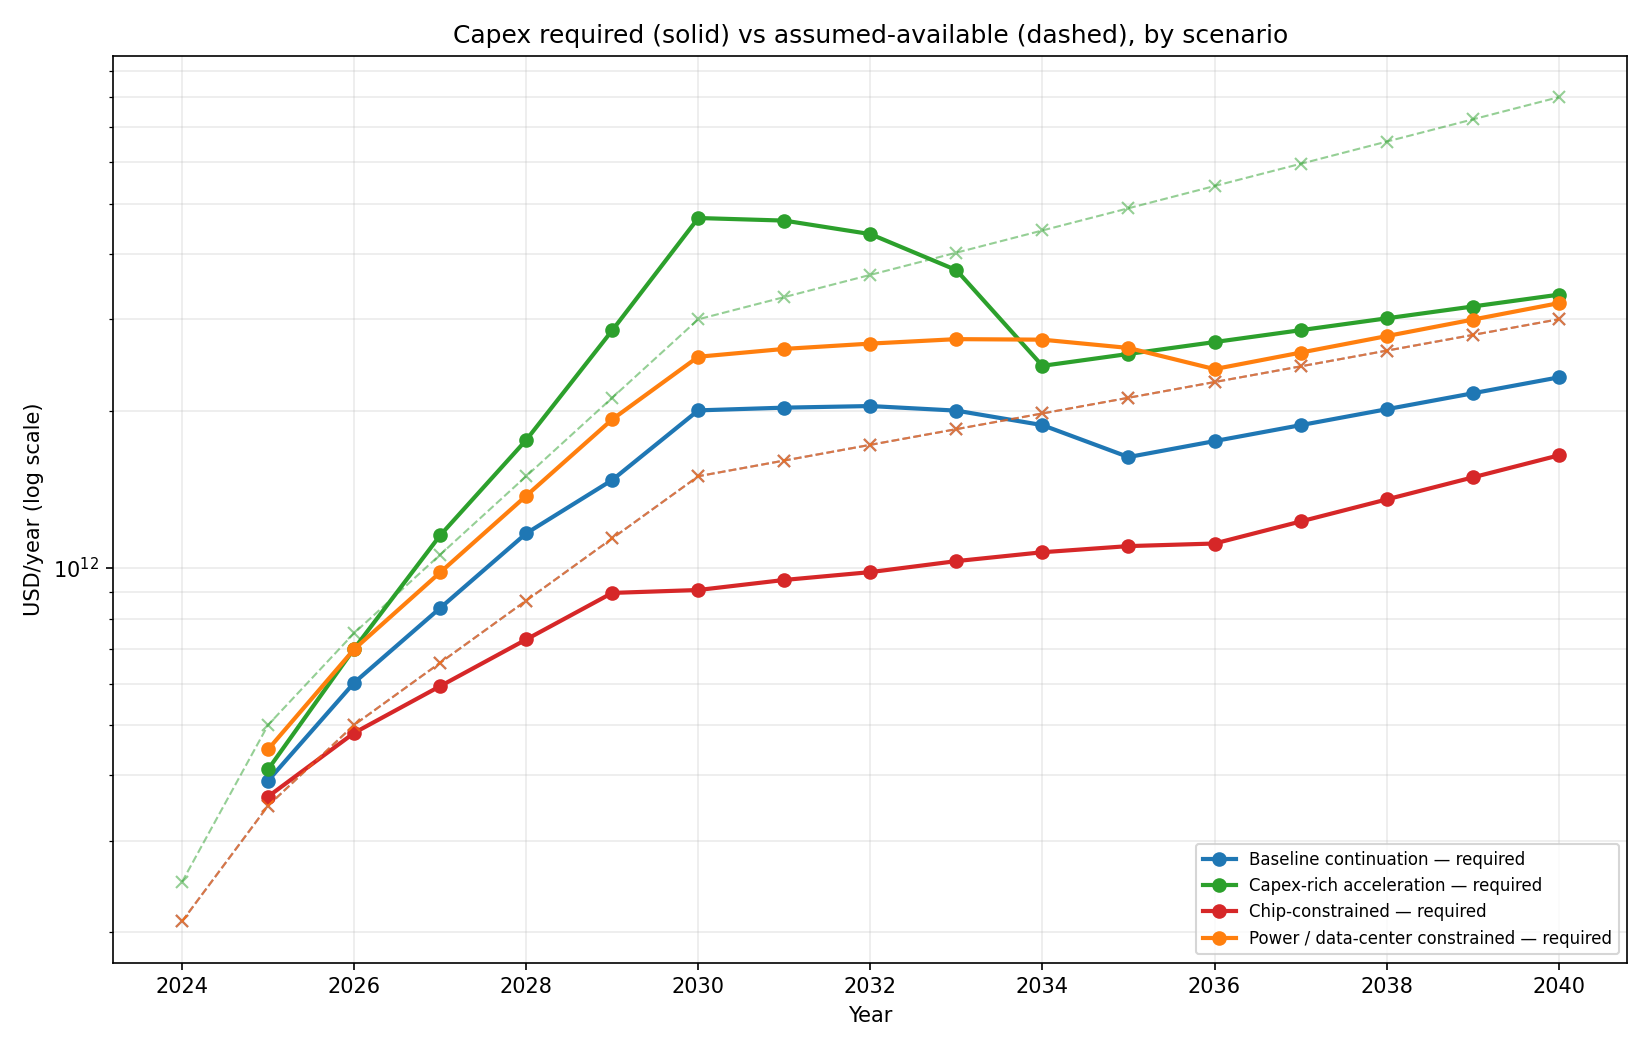
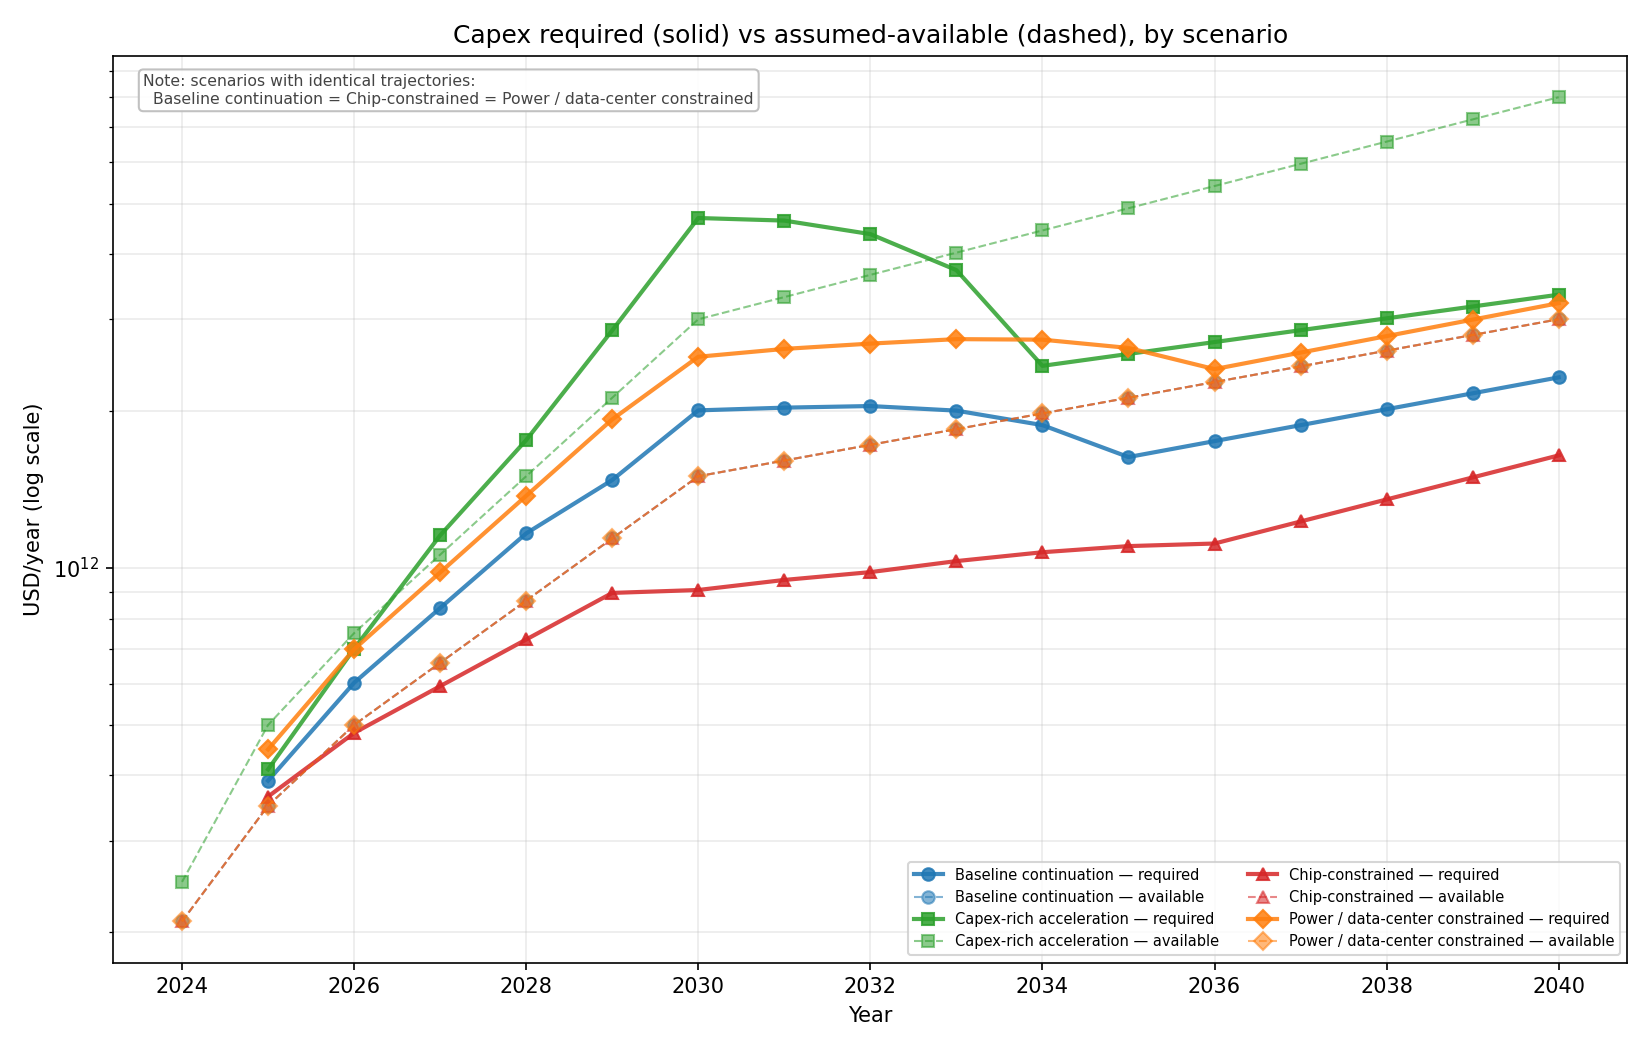
Distinguish overlapping scenarios in supply charts (markers + annotation)
Two scenario-comparison charts had visual ambiguity because some
parameters are intentionally identical across scenarios:
- supply_capex_required.png: ai_infrastructure_capex_usd is identical
  across base / chip_bottleneck / power_datacenter_bottleneck, so
  three of four dashed (capex-available) lines overplotted exactly,
  making the chart look like only 2 of 4 dashed lines were drawn.
- supply_power_capacity_constraint.png (left): ai_datacenter_capacity_mw
  is identical across base and chip_bottleneck, so the blue
  (Baseline continuation) line overplotted exactly under the red
  (Chip-constrained) line, hiding the baseline.

The overlaps are mathematically correct (the assumptions ARE the
same; per-row source/confidence in supply_input_assumptions.yaml).
The visual confusion is what's wrong.

Fixes:
- model/runtime.py: new SCENARIO_MARKERS dict (o/s/^/D for base /
  capex_rich / chip_bot / power_dc_bot). Distinct markers stay
  visible even when lines overlap exactly.
- pipelines/supply_charts.py: helpers _scenario_marker(),
  _detect_overlapping_scenarios(), and _annotate_overlap(). Every
  scenario-by-scenario chart now uses per-scenario markers and
  alpha=0.85; the two affected charts include a small annotation
  box listing which scenarios share the trajectory shown.
- pipelines/supply_charts.py chart_capex_required: legend now
  includes both "required" and "available" entries (4+4=8 in 2 cols)
  rather than only the solid lines.
[…]

diff --git a/pipelines/supply_charts.py b/pipelines/supply_charts.py
@@ -19,12 +19,50 @@ import numpy as np
 import pandas as pd
 from matplotlib.patches import Patch
 
-from model.runtime import CONSTRAINT_COLORS, SCENARIO_COLORS
+from model.runtime import CONSTRAINT_COLORS, SCENARIO_COLORS, SCENARIO_MARKERS
 from model.supply_engine import CONSTRAINTS, ScenarioConfig
+
+# Slight transparency on supply line plots so overlapping scenarios still
+# read as distinct visually.
+_LINE_ALPHA = 0.85
 
 
 def _scenario_color(name: str) -> str:
     return SCENARIO_COLORS.get(name, "grey")
+
+
+def _scenario_marker(name: str) -> str:
+    return SCENARIO_MARKERS.get(name, "o")
+
+
+def _detect_overlapping_scenarios(
+    df: pd.DataFrame, scenarios: list[ScenarioConfig], value_col: str
+) -> list[list[str]]:
+    """Return groups of scenario names that share an identical trajectory in
+    `value_col`. Used to annotate charts when scenarios overplot."""
+    groups: dict[tuple, list[str]] = {}
+    for sc in scenarios:
+        sub = df[df["scenario"] == sc.name].sort_values("year")
+        traj = tuple(sub[value_col].round(6).values)
+        groups.setdefault(traj, []).append(sc.display_name)
+    return [g for g in groups.values() if len(g) > 1]
+
+
+def _annotate_overlap(ax, overlap_groups: list[list[str]]) -> None:
+    """If any scenarios share trajectories, add a small text annotation."""
+    if not overlap_groups:
+        return
+    lines = ["Note: scenarios with identical trajectories:"]
+    for grp in overlap_groups:
+        lines.append("  " + " = ".join(grp))
+    ax.text(
+        0.02, 0.98, "\n".join(lines),
+        transform=ax.transAxes,
+        ha="left", va="top",
+        fontsize=7.5, color="#444",
+        bbox=dict(boxstyle="round,pad=0.3",
+                  facecolor="white", edgecolor="#bbb", alpha=0.9),
+    )
 
 
 def chart_accelerator_stock(
@@ -36,8 +74,9 @@ def chart_accelerator_stock(
         ax.plot(
             sub["year"],
             sub["available_stock_h100e"],
-            marker="o",
+            marker=_scenario_marker(sc.name),
             linewidth=2,
+            alpha=_LINE_ALPHA,
             color=_scenario_color(sc.name),
             label=sc.display_name,
         )
@@ -59,13 +98,14 @@ def chart_theoretical_and_usable_compute(
     for sc in scenarios:
         sub = df[df["scenario"] == sc.name]
         c = _scenario_color(sc.name)
+        m = _scenario_marker(sc.name)
         axes[0].plot(
             sub["year"], sub["theoretical_compute_flop_year"],
-            marker="o", linewidth=2, color=c, label=sc.display_name,
+            marker=m, linewidth=2, alpha=_LINE_ALPHA, color=c, label=sc.display_name,
         )
         axes[1].plot(
             sub["year"], sub["usable_compute_flop_year"],
-            marker="o", linewidth=2, color=c, label=sc.display_name,
+            marker=m, linewidth=2, alpha=_LINE_ALPHA, color=c, label=sc.display_name,
         )
     titles = [
         "Theoretical (chip stock × peak FLOP × s)",
@@ -92,7 +132,8 @@ def chart_usable_compute_capacity(
         sub = df[df["scenario"] == sc.name]
         ax.plot(
             sub["year"], sub["usable_compute_flop_year"],
-            marker="o", linewidth=2,
+            marker=_scenario_marker(sc.name), linewidth=2,
+            alpha=_LINE_ALPHA,
             color=_scenario_color(sc.name),
             label=sc.display_name,
         )
@@ -118,7 +159,8 @@ def chart_power_capacity_constraint(
         c = _scenario_color(sc.name)
         axes[0].plot(
             sub["year"], sub["ai_power_capacity_mw"],
-            marker="o", linewidth=2, color=c, label=sc.display_name,
+            marker=_scenario_marker(sc.name), linewidth=2, alpha=_LINE_ALPHA,
+            color=c, label=sc.display_name,
         )
     axes[0].set_yscale("log")
     axes[0].set_xlabel("Year")
@@ -126,13 +168,17 @@ def chart_power_capacity_constraint(
     axes[0].set_title("AI-DC installed power capacity")
     axes[0].grid(True, which="both", alpha=0.25)
     axes[0].legend(loc="lower right", fontsize=9)
+    _annotate_overlap(
+        axes[0], _detect_overlapping_scenarios(df, scenarios, "ai_power_capacity_mw")
+    )
 
     for sc in scenarios:
         sub = df[df["scenario"] == sc.name]
         c = _scenario_color(sc.name)
+        m = _scenario_marker(sc.name)
         axes[1].plot(
             sub["year"], sub["power_limited_stock_h100e"],
-            marker="o", linewidth=2, color=c,
+            marker=m, linewidth=2, alpha=_LINE_ALPHA, color=c,
             label=f"{sc.display_name} — power-lim",
         )
         axes[1].plot(
@@ -158,14 +204,16 @@ def chart_capex_required(
     for sc in scenarios:
         sub = capex_df[capex_df["scenario"] == sc.name]
         c = _scenario_color(sc.name)
+        m = _scenario_marker(sc.name)
         ax.plot(
             sub["year"], sub["capex_required_usd"],
-            marker="o", linewidth=2, color=c,
+            marker=m, linewidth=2, alpha=_LINE_ALPHA, color=c,
             label=f"{sc.display_name} — required",
         )
         ax.plot(
             sub["year"], sub["capex_available_usd"],
-            marker="x", linewidth=1, alpha=0.5, color=c, linestyle="--",
+            marker=m, linewidth=1, alpha=0.55, color=c, linestyle="--",
+            label=f"{sc.display_name} — available",
         )
     ax.set_yscale("log")
     ax.set_xlabel("Year")
@@ -174,7 +222,10 @@ def chart_capex_required(
         "Capex required (solid) vs assumed-available (dashed), by scenario"
     )
     ax.grid(True, which="both", alpha=0.25)
-    ax.legend(loc="lower right", fontsize=8)
+    ax.legend(loc="lower right", fontsize=7, ncol=2)
+    _annotate_overlap(
+        ax, _detect_overlapping_scenarios(capex_df, scenarios, "capex_available_usd")
+    )
     fig.tight_layout()
     fig.savefig(out, dpi=150)
     plt.close(fig)
@@ -225,7 +276,8 @@ def chart_vs_historical_compute_trend(
         sub = df[df["scenario"] == sc.name]
         ax.plot(
             sub["year"], sub["usable_compute_flop_year"],
-            marker="o", linewidth=2,
+            marker=_scenario_marker(sc.name), linewidth=2,
+            alpha=_LINE_ALPHA,
             color=_scenario_color(sc.name),
             label=f"supply: {sc.display_name}",
         )
@@ -252,7 +304,8 @@ def chart_vs_historical_compute_trend(
         norm = sub["usable_compute_flop_year"] / sub.loc[2024, "usable_compute_flop_year"]
         ax.plot(
             norm.index, norm.values,
-            marker="o", linewidth=2,
+            marker=_scenario_marker(sc.name), linewidth=2,
+            alpha=_LINE_ALPHA,
             color=_scenario_color(sc.name),
             label=sc.display_name,
         )

diff --git a/tests/test_runtime.py b/tests/test_runtime.py
@@ -1,13 +1,14 @@
 """Smoke tests for cross-cutting constants.
 
-Locks in the contract: every scenario YAML must have a SCENARIO_COLORS
-entry, and every CONSTRAINTS value must have a CONSTRAINT_COLORS entry.
+Locks in the contract: every scenario YAML must have entries in
+SCENARIO_COLORS and SCENARIO_MARKERS; every CONSTRAINTS value must
+have an entry in CONSTRAINT_COLORS.
 """
 from __future__ import annotations
 
 import yaml
 
-from model.runtime import CONSTRAINT_COLORS, SCENARIO_COLORS
+from model.runtime import CONSTRAINT_COLORS, SCENARIO_COLORS, SCENARIO_MARKERS
 from model.supply_engine import CONSTRAINTS, SCENARIOS_DIR
 
 
@@ -19,6 +20,16 @@ def test_every_scenario_has_a_color() -> None:
         name = d["name"]
         assert name in SCENARIO_COLORS, (
             f"scenario {name!r} (from {path.name}) has no entry in SCENARIO_COLORS"
+        )
+
+
+def test_every_scenario_has_a_marker() -> None:
+    scenario_yamls = sorted(SCENARIOS_DIR.glob("supply_*.yaml"))
+    for path in scenario_yamls:
+        d = yaml.safe_load(path.read_text())
+        name = d["name"]
+        assert name in SCENARIO_MARKERS, (
+            f"scenario {name!r} (from {path.name}) has no entry in SCENARIO_MARKERS"
         )
 
 

diff --git a/model/runtime.py b/model/runtime.py
@@ -44,6 +44,17 @@ SCENARIO_COLORS = {
     "power_datacenter_bottleneck": "tab:orange",
 }
 
+# Distinct markers per scenario so overlapping series remain readable when
+# scenarios share a parameter trajectory (e.g. base and chip_bottleneck
+# share `ai_datacenter_capacity_mw`; base / chip_bottleneck /
+# power_datacenter_bottleneck share `ai_infrastructure_capex_usd`).
+SCENARIO_MARKERS = {
+    "base_input_case": "o",
+    "capex_rich": "s",
+    "chip_bottleneck": "^",
+    "power_datacenter_bottleneck": "D",
+}
+
 # Supply binding-constraint categories. Keys must match the entries in
 # supply_engine.CONSTRAINTS.
 CONSTRAINT_COLORS = {
